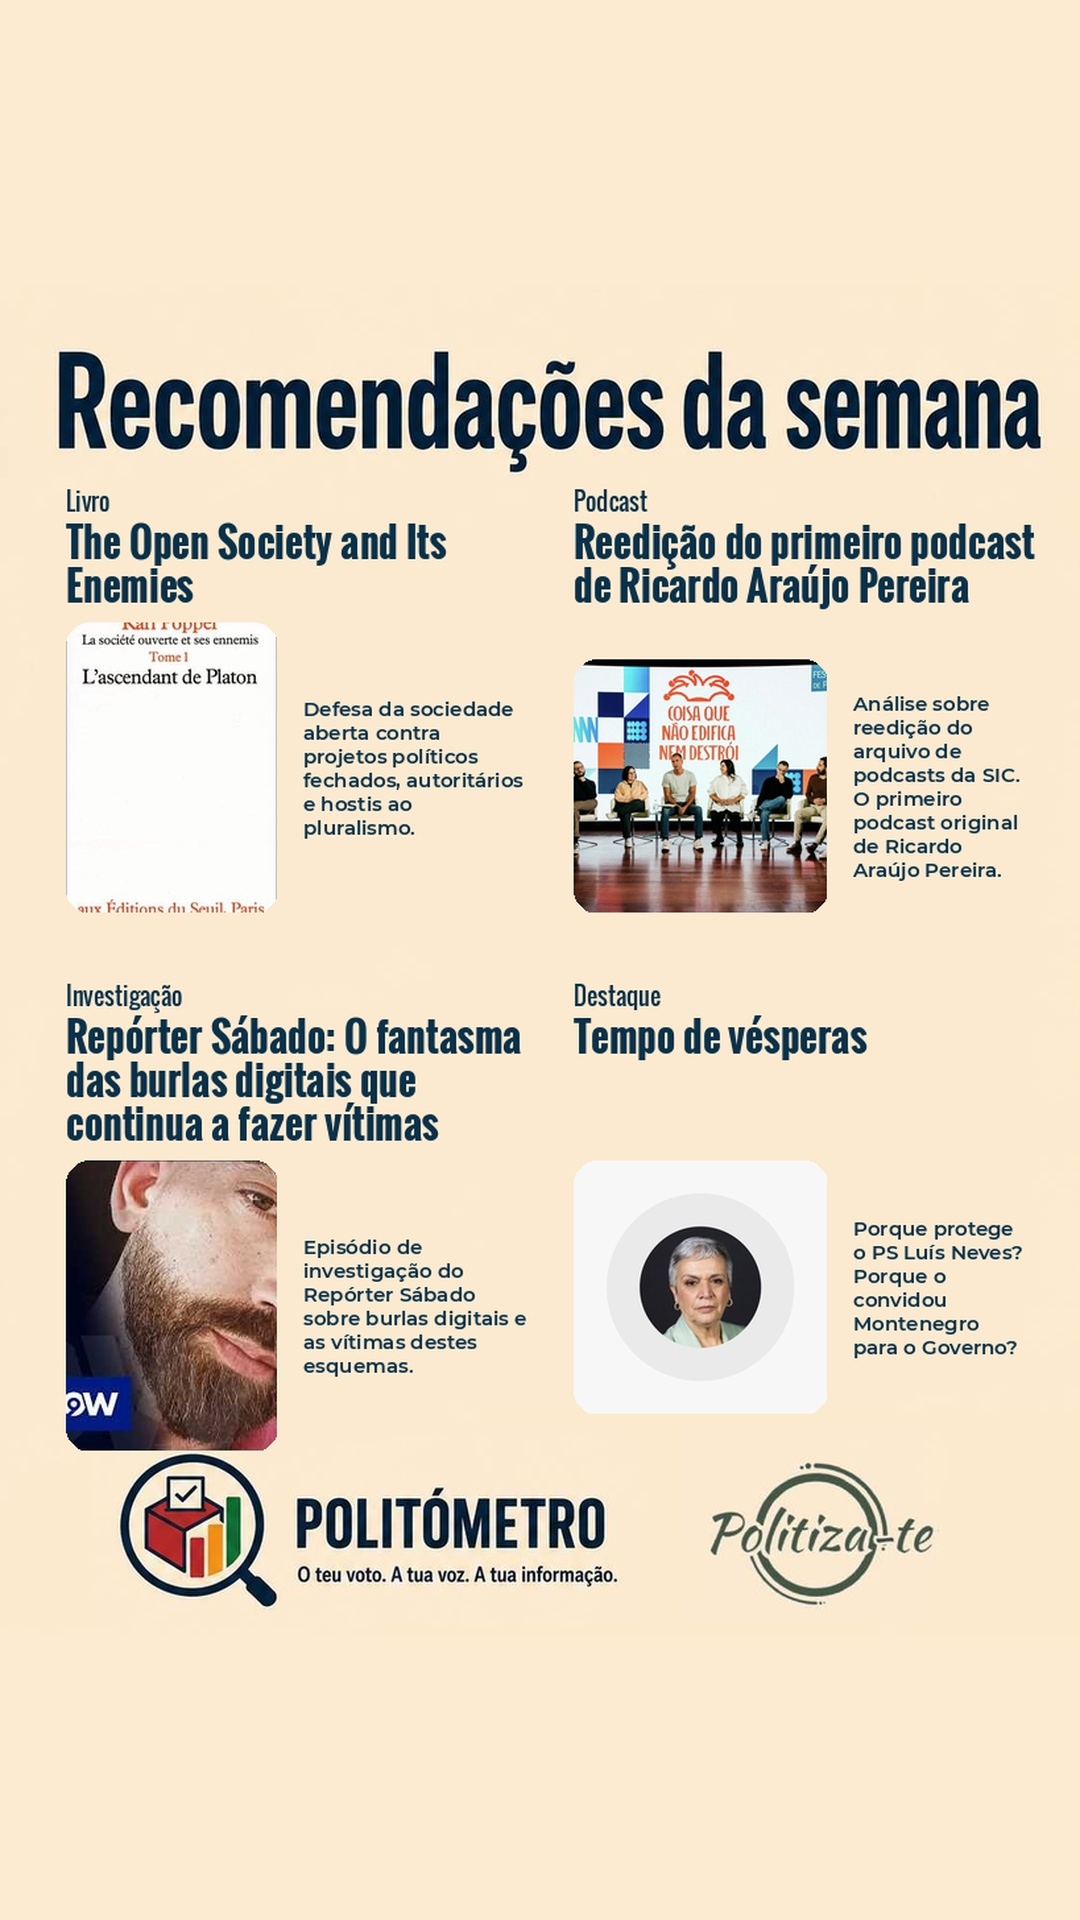
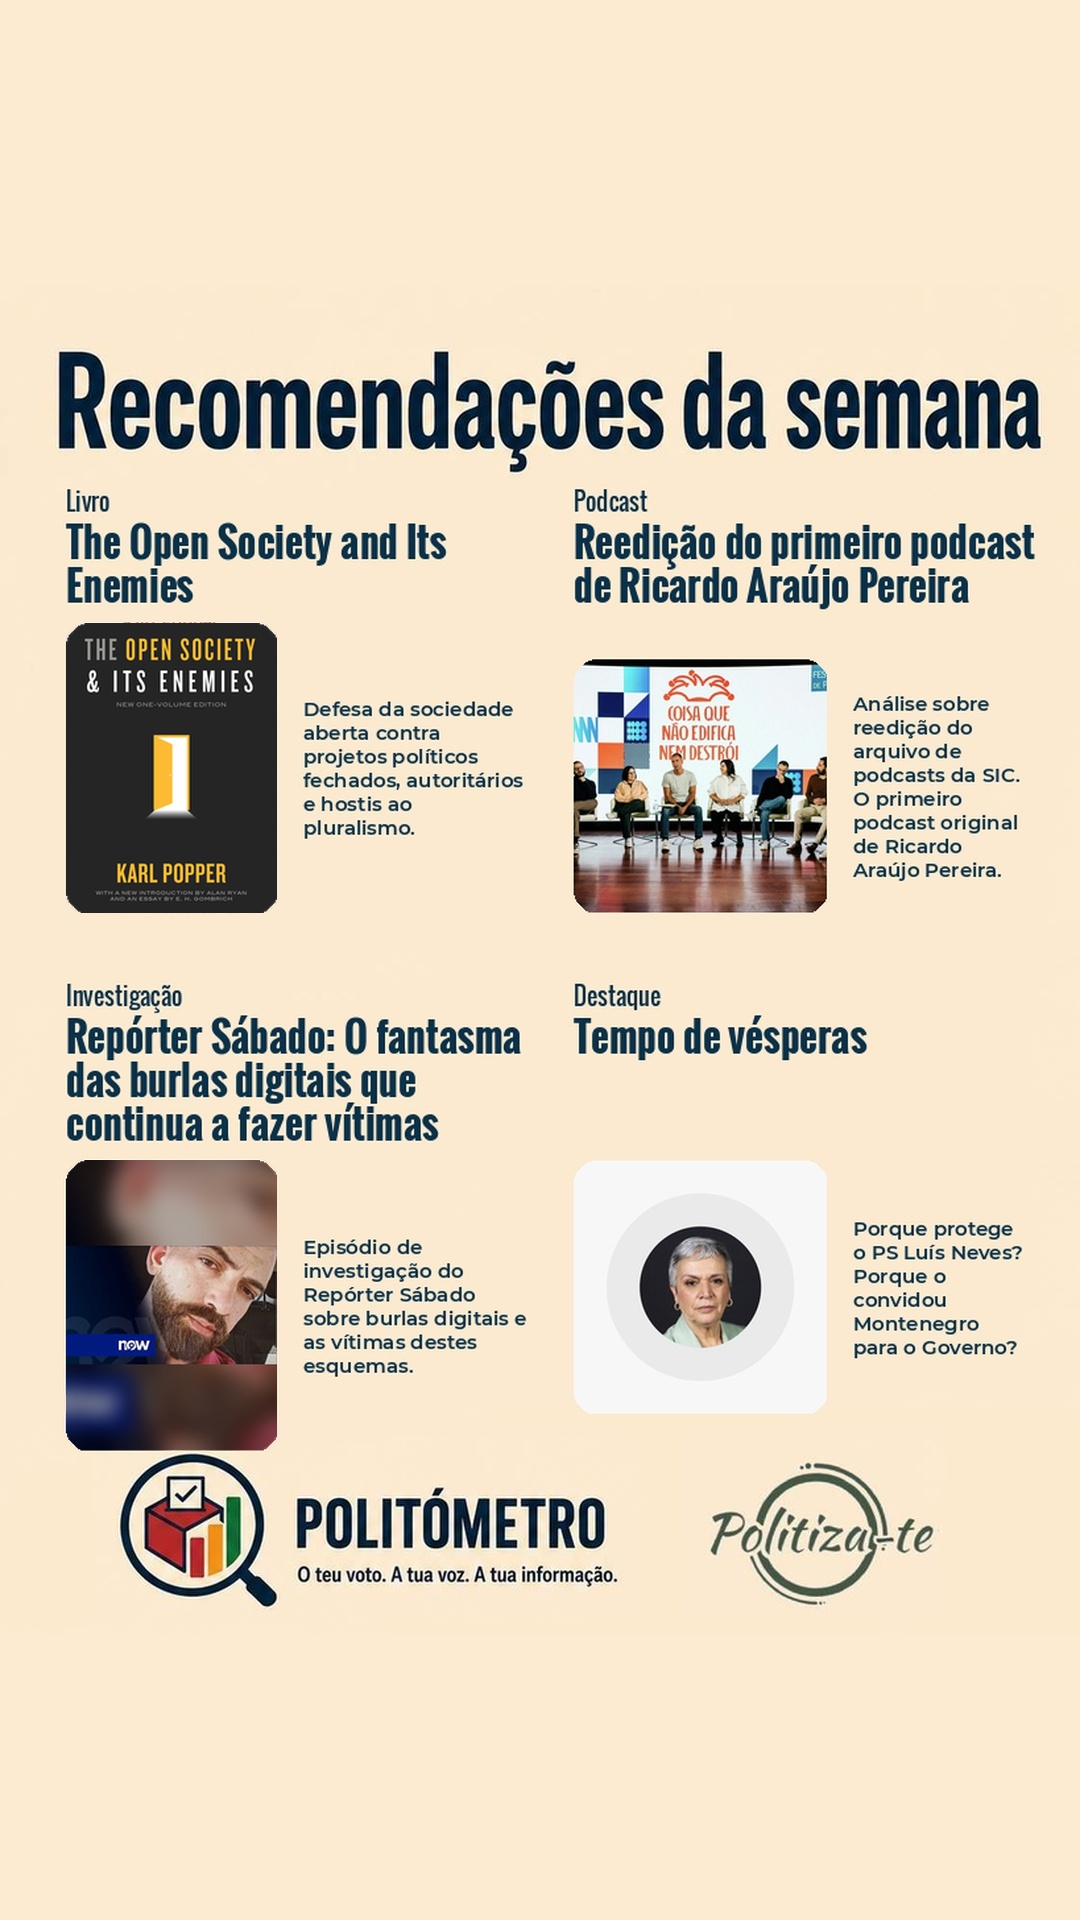
Update review cover composition and Discord mention

Changed region(s): [[0.0611, 0.3125, 0.275, 0.5], [0.0611, 0.5938, 0.275, 0.7812]]

diff --git a/scripts/send_to_discord.py b/scripts/send_to_discord.py
@@ -25,7 +25,8 @@ except ValueError:
     print(f"❌ Erro: '{raw_channel}' não é um ID de canal válido (deve ser um número).")
     sys.exit(1)
 
-PING_EVERYONE = os.environ.get("PING_EVERYONE", "false").lower() == "true"
+# Every review card is an approval request and must notify the review group.
+PING_EVERYONE = True
 
 # Determine paths
 SCRIPT_DIR = os.path.dirname(os.path.abspath(__file__))
